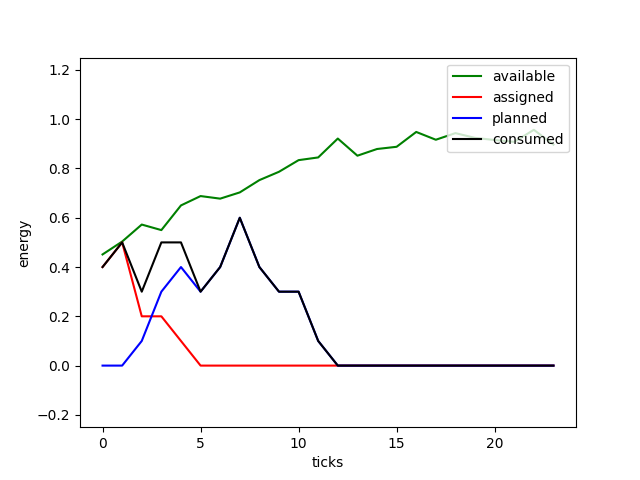
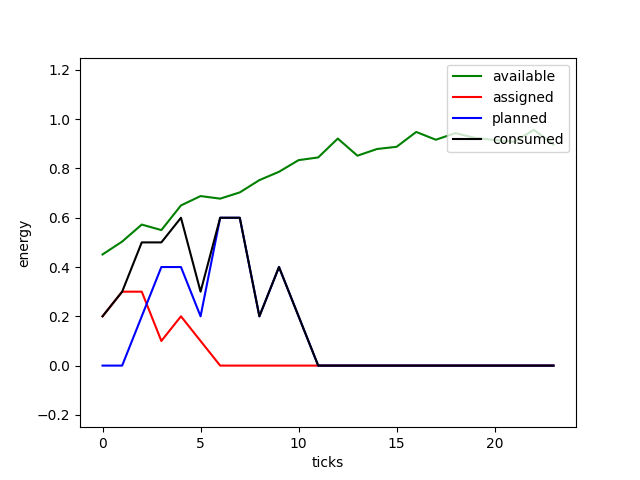
fix LinearProgrammingSolver

Changed region(s): [[0.1562, 0.4375, 0.5312, 0.7812], [0.1562, 0.625, 0.1875, 0.6562]]

diff --git a/volttron_optimizer.py b/volttron_optimizer.py
@@ -1,4 +1,5 @@
 from itertools import product
+from collections import defaultdict
 from dataclasses import dataclass
 from abc import ABC, abstractmethod
 from typing import List, Dict
@@ -84,7 +85,7 @@ class LinearProgrammingScheduler(IScheduler):
         if not requests:
             return {}
 
-        available_energy = utils.pad(available_energy, self.lookahead)
+        available_energy = utils.pad(available_energy, len(available_energy) - self.lookahead)
 
         offset_ranges = {
             r: min(self.lookahead - len(r.profile) + 1, r.timeout + 1) for r in requests
@@ -116,27 +117,26 @@ class LinearProgrammingScheduler(IScheduler):
         req_energy_vars = {r: [] for r in requests}
 
         for request in requests:
-            for i, offset in enumerate(range(self.lookahead)):
+            for i, offset in enumerate(range(offset_ranges[request] + len(request.profile) - 1)):
                 req_var = LpVariable(f'req_{offset}_{request.request_id}', lowBound=0, cat='Continuous')
                 req_energy_vars[request].append(req_var)
 
-        # Enforce lower bound on required energy
+        # Enforce lower bound on required energy and
+        # collect all variables that will enforce upper bound
+        upper_bounds = {r: defaultdict(list) for r in requests}
+
         for request in requests:
             profile = request.profile
             for offset, offset_var in enumerate(offset_vars[request]):
                 for i, req in enumerate(profile):
                     model += req * offset_var <= req_energy_vars[request][offset + i]
+                    upper_bounds[request][offset + i].append((req, offset_var))
 
         # Enforce upper bounds (if time instant not chosen -> zero energy required)
         for request in requests:
-            for offset in range(self.lookahead):
-                upper_bound = []
-                l, r = max(0, offset - len(request.profile) + 1), min(offset + 1, len(offset_vars[request]))
-                for i in range(l, r):
-                    upper_bound.append((request.profile[r - i - 1], offset_vars[request][i]))
-
-                upper_bound = [u[0] * u[1] for u in upper_bound]
-                model += sum(upper_bound) >= req_energy_vars[request][offset]
+            for offset in upper_bounds[request]:
+                upper_bound = sum([u[0] * u[1] for u in upper_bounds[request][offset]])
+                model += upper_bound >= req_energy_vars[request][offset]
 
         # Prepare cost function variables
         pos_cost_vars = [LpVariable(f'pos_{offset}', lowBound=0, cat='Continuous') for offset in range(self.lookahead)]
@@ -144,10 +144,15 @@ class LinearProgrammingScheduler(IScheduler):
 
         for offset in range(self.lookahead):
             remaining_energy = available_energy[offset]
-            planned_energy = [req_energy_vars[req][offset] for req in requests]
-            delta_energy = remaining_energy - sum(planned_energy)
-            model += pos_cost_vars[offset] >= delta_energy
-            model += neg_cost_vars[offset] <= delta_energy
+            planned_energy = []
+            for request in requests:
+                if offset < offset_ranges[request] + len(request.profile) - 1:
+                    planned_energy.append(req_energy_vars[request][offset])
+
+            if planned_energy:
+                delta_energy = remaining_energy - sum(planned_energy)
+                model += pos_cost_vars[offset] >= delta_energy
+                model += neg_cost_vars[offset] <= delta_energy
 
         # Optimize
         cost_f = 0.05 * sum(pos_cost_vars)

diff --git a/example_washing.py b/example_washing.py
@@ -14,7 +14,7 @@ if __name__ == '__main__':
 
     dishwasher_profile = np.array([0.1, 0.2, 0.2, 0.1, 0.3, 0.3, 0.1, 0.2, 0.1])
     for i in range(4):
-        request = Request(i, f'dishwasher{i}', dishwasher_profile, 99)  # TODO: check timeouts
+        request = Request(i, f'dishwasher{i}', dishwasher_profile, i*5)
         hub.add_request(request, autoschedule=False)
 
     hub.schedule()
